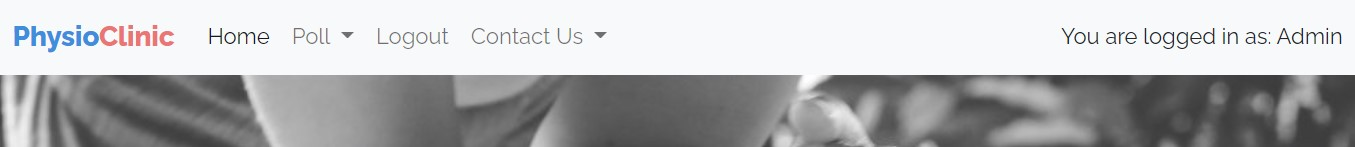
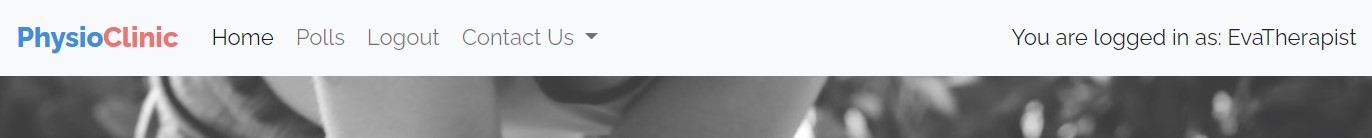
Update poll menu screens in README

diff --git a/templates/base.html b/templates/base.html
@@ -37,6 +37,7 @@
     <!-- Navigation -->
     <nav class="navbar navbar-expand-lg navbar-light fixed-top">
         <div class="container-fluid">
+            <!-- Logo link -->
             <a class="navbar-brand" href="{% url 'blog_home' %}"><span class="logo">Physio<span class="logo-accent">Clinic</span></span></a>
             <button class="navbar-toggler" type="button" data-bs-toggle="collapse" data-bs-target="#navbarText"
                 aria-controls="navbarText" aria-expanded="false" aria-label="Toggle navigation">
@@ -44,17 +45,16 @@
             </button>
             <div class="collapse navbar-collapse" id="navbarText">
                 <ul class="navbar-nav me-auto mb-2 mb-lg-0 d-flex">
+                    <!-- Home link -->
                     <li class="nav-item">
                         <a class="nav-link active" aria-current="Home" href="{% url 'blog_home' %}">Home</a>
+                    <!-- Poll link -->
                     </li>
-                    
-
-                        <!-- Poll link -->
                         <li class="nav-item">
                             <a class="nav-link" aria-current="Poll" href="{% url 'poll_home' %}">Polls</a>
                         </li>
-
-                    {% if user.is_authenticated %}
+                    <!-- Login / logout link -->
+                        {% if user.is_authenticated %}
                         <li class="nav-item">
                             <a class="nav-link" aria-current="Logout" href="{% url 'account_logout' %}">Logout</a>
                         </li>
@@ -64,8 +64,8 @@
                         </li>
                     {% endif %}
                     
+                    <!-- Contact Us / Booking for logged in users -->
                     {% if user.is_authenticated %}
-                        <!-- Contact Us / Booking for logged in users -->
                         <li class="nav-item dropdown">
                             <a class="nav-link dropdown-toggle" href="#" role="button" data-bs-toggle="dropdown" aria-expanded="false">
                                 Contact Us
@@ -81,8 +81,9 @@
                             <a class="nav-link" aria-current="Contact Us" href="{% url 'contact' %}">Contact Us</a>`
                         </li>
                     {% endif %}
-
                 </ul>
+
+                <!-- Login status info / slogan -->
                 <span class="navbar-text text-body">
                     <div class="d-flex align-items-center"></div>
                         {% if user.is_authenticated %}
@@ -96,6 +97,7 @@
                         {% endif %}
                     </div>
                 </span>
+
             </div>
         </div>
     </nav>
@@ -157,7 +159,7 @@
             let messages = document.getElementById('msg');
             let alert = new bootstrap.Alert(messages);
             alert.close();
-        }, 5000);
+        }, 4000);
     </script>
 
 </body>
